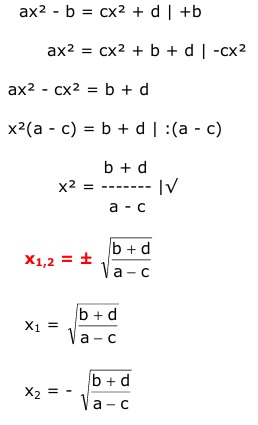
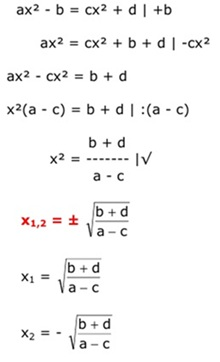
Add files via upload

diff --git a/QGleich_Aufgabe7.html b/QGleich_Aufgabe7.html
@@ -18,31 +18,6 @@
     
 <pre><p class ="Aufgabe">Quadratische Gleichungen Aufgabe 7
 
-ax² - b = c |+b 
- 
-   ax² = b + c |:a 
- 
-          b + c 
-    x² = ------- |√ 
-            a    
-
-x<sub>1,2</sub> = ± <math mathsize="1.2em"><msqrt><mfrac><mrow><mi>b</mi><mo>+</mo><mi>c</mi></mrow><mi>a</mi></mfrac></msqrt></math>
-
-<span style="color:red;">x<sub>1</sub> = <math mathsize="1.2em"><msqrt><mfrac><mrow><mi>b</mi><mo>+</mo><mi>c</mi></mrow><mi>a</mi></mfrac></msqrt></math></span> 
-
-<span style="color:red;">x<sub>2</sub> = -<math mathsize="1.2em"><msqrt><mfrac><mrow><mi>b</mi><mo>+</mo><mi>c</mi></mrow><mi>a</mi></mfrac></msqrt></math></span>
-
-<math >
-    <msqrt mathsize="25">
-        <mfrac>
-            <mrow>
-                <mi>b</mi>
-                <mo>+</mo>
-                <mi>c</mi>
-            </mrow>
-            <mi>a</mi>
-        </mfrac>
-    </msqrt>
-</math>
+<img src="Aufgabe7.jpg" >
 
 </p></pre>

diff --git a/QGleich_Aufgabe6.html b/QGleich_Aufgabe6.html
@@ -18,21 +18,6 @@
     
 <pre><p class ="Aufgabe">Quadratische Gleichungen Aufgabe 6
 
- ax²     c 
------ = --- 
-  b      d   
- 
-Über Kreuz multipliziert 
- 
-a * d * x² = b * c |:(a * d) 
- 
-      b * c  
-x² = -------- |√  
-      a * d 
- 
-x<sub>1,2</sub> = ± <math mathsize="1.2em"><msqrt><mfrac><mrow><mi>b</mi><mo>*</mo><mi>c</mi></mrow><mrow><mi>a</mi><mo>*</mo><mi>d</mi></mrow></mfrac></msqrt></math> 
+<img src="Aufgabe6.jpg" >
 
-<span style="color:red;">x<sub>1</sub> = <math mathsize="1.2em"><msqrt><mfrac><mrow><mi>b</mi><mo>*</mo><mi>c</mi></mrow><mrow><mi>a</mi><mo>*</mo><mi>d</mi></mrow></mfrac></msqrt></math></span> 
-
-<span style="color:red;">x<sub>2</sub> = -<math mathsize="1.2em"><msqrt><mfrac><mrow><mi>b</mi><mo>*</mo><mi>c</mi></mrow><mrow><mi>a</mi><mo>*</mo><mi>d</mi></mrow></mfrac></msqrt></math></span>
 </p></pre>

diff --git a/QGleich_Aufgabe15.html b/QGleich_Aufgabe15.html
@@ -5,6 +5,8 @@
   <meta http-equiv="X-UA-Compatible" content="IE=edge">
   <meta name ="viewport" content="width=device-width, initial-scale=1.0">
   <title>Quadratische Gleichungen</title>
+  <script src="https://polyfill.io/v3/polyfill.min.js?features=es6"></script>
+    <script id="MathJax-script" async src="https://cdn.jsdelivr.net/npm/mathjax@3/es5/tex-mml-chtml.js"></script>
   
 </head>
 <body style="background-color:lightgrey;; margin-top: 1em; ">
@@ -40,4 +42,5 @@ a²+ abx + abx + b²x² + a²x² - abx - abx + b² = 2a²x² + 2b²
 
                                           <span style="color:red;">x<sub>2</sub> = -1</span>
 
+                                          
 </p></pre>

diff --git a/QGleich_Aufgabe5.html b/QGleich_Aufgabe5.html
@@ -18,16 +18,7 @@
     
 <pre><p class ="Aufgabe">Quadratische Gleichungen Aufgabe 5
 
-ax² = b |:a 
- 
-       b  
- x² = --- |√  
-       a  
+<img src="Aufgabe5.jpg" >
 
-x<sub>1,2</sub> = ± <math mathsize="1.2em"><msqrt><mfrac ><mi>b</mi><mi>a</mi></mfrac></msqrt></math>   
-
-<span style="color:red;">x<sub>1</sub> = <math mathsize="1.2em"><msqrt><mfrac><mi>b</mi><mi>a</mi></mfrac></msqrt></math></span> 
-
-<span style="color:red;">x<sub>2</sub> = -<math mathsize="1.2em"><msqrt><mfrac><mi>b</mi><mi>a</mi></mfrac></msqrt></math></span>
 
 </p></pre>
